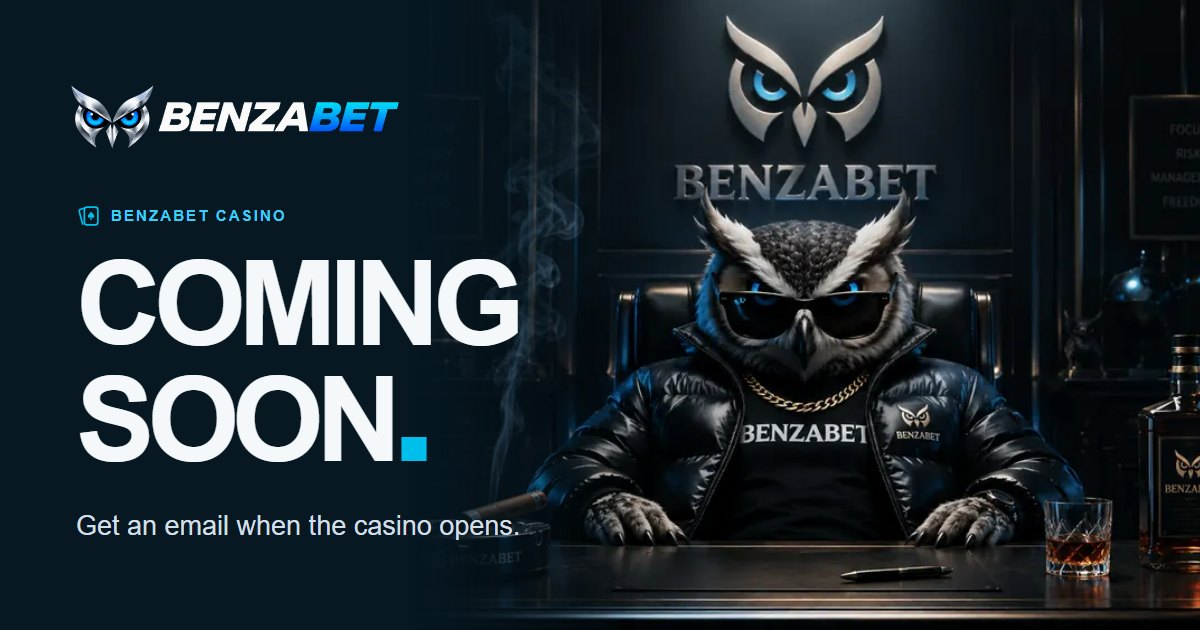
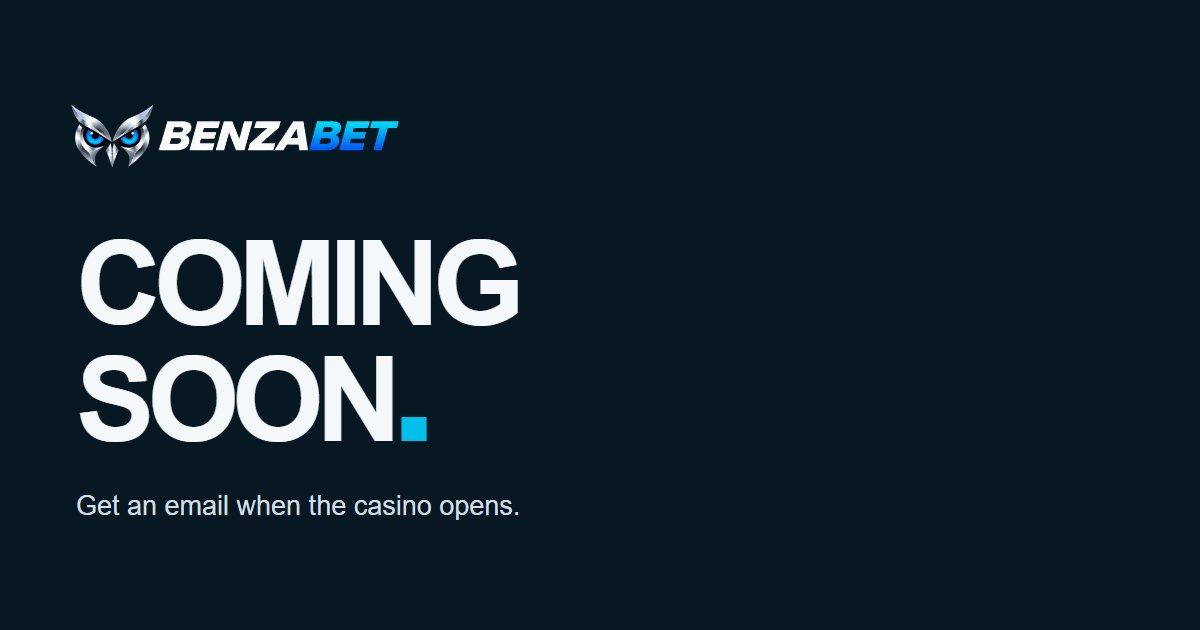
Remove the Benzabet Casino label above the headline
Spacing adjusted around the headline, share picture re-made without
the label, tab title now Benzabet - Coming soon.

diff --git a/index.html b/index.html
@@ -7,12 +7,12 @@
   <meta name="theme-color" content="#020b12">
   <meta http-equiv="Content-Security-Policy" content="default-src 'none'; img-src 'self'; style-src 'unsafe-inline'; script-src 'unsafe-inline'; connect-src https://script.google.com https://script.googleusercontent.com; form-action 'none'; base-uri 'none'">
   <meta name="referrer" content="no-referrer">
-  <title>Benzabet Casino &mdash; Coming soon</title>
-  <meta name="description" content="Benzabet Casino is coming soon. Leave your email address and get one email when the casino opens.">
+  <title>Benzabet &mdash; Coming soon</title>
+  <meta name="description" content="Benzabet is coming soon. Leave your email address and get one email when the casino opens.">
   <link rel="canonical" href="https://benzabet.com/">
   <meta property="og:type" content="website">
   <meta property="og:site_name" content="Benzabet">
-  <meta property="og:title" content="Benzabet Casino &mdash; Coming soon">
+  <meta property="og:title" content="Benzabet &mdash; Coming soon">
   <meta property="og:description" content="Get an email when the casino opens.">
   <meta property="og:url" content="https://benzabet.com/">
   <meta property="og:image" content="https://benzabet.com/img/og.jpg">
@@ -51,8 +51,6 @@
     .art picture{display:block;width:100%;height:100%}
     .art img{width:100%;height:100%;display:block;object-fit:cover;object-position:50% 42%}
     .copy{padding:clamp(38px,4.6vw,68px);width:57%}
-    .label{margin:0 0 18px;display:flex;align-items:center;gap:10px;color:#39cffa;letter-spacing:.14em;font-size:12px;font-weight:700;line-height:1.25;text-transform:uppercase}
-    .label svg{width:21px;height:21px;color:var(--cyan);flex:none}
     h1{margin:0;font-size:clamp(62px,6.5vw,96px);line-height:.94;letter-spacing:-.062em;font-weight:700;text-transform:uppercase}
     h1 span{display:block}h1 b{color:var(--cyan)}
     .invite{margin:24px 0 19px;color:#d2dfe7;font-size:clamp(16px,1.3vw,19px);line-height:1.5}
@@ -104,7 +102,6 @@
       main{padding-block:14px 16px}
       .hero{min-height:max(238px,calc(100vh - 100px));min-height:max(238px,calc(100svh - 100px))}
       .copy{padding:13px 30px 36px}
-      .label{margin-bottom:9px;font-size:11px}
       h1{font-size:clamp(40px,14.5vh,62px)}
       .invite{margin:11px 0 12px;font-size:16px}
       input,button{height:46px;min-height:46px}input{font-size:16px}.done{min-height:46px;font-size:13.5px;padding:3px 14px}
@@ -121,8 +118,7 @@
       .art{position:relative;z-index:auto;width:100%;height:auto;aspect-ratio:1.3;max-height:340px;-webkit-mask-image:none;mask-image:none;background:#071823}
       .art img{object-position:50% 42%}
       .art::after{content:"";position:absolute;inset:0;background:linear-gradient(0deg,#071823 0%,transparent 19%)}
-      .copy{width:100%;padding:15px 21px 24px}
-      .label{font-size:10px;letter-spacing:.13em;margin:0 0 10px;gap:7px}.label svg{width:17px;height:17px}
+      .copy{width:100%;padding:19px 21px 24px}
       h1{font-size:clamp(33px,10.4vw,68px);line-height:.99;letter-spacing:-.053em}h1 span{display:inline}
       .invite{margin:15px 0 18px;font-size:16px;line-height:1.45}
       .signup{max-width:100%}form{gap:7px}
@@ -135,7 +131,7 @@
     /* A wide phone: the picture stays a band, it does not push the words off the first screen */
     @media(max-width:700px) and (min-width:480px){.art{aspect-ratio:1.9;max-height:none}.art img{object-position:50% 0}}
     /* A short phone held upright: a lower picture, so the form is on the first screen */
-    @media(max-width:479px) and (max-height:620px){.art{aspect-ratio:1.62}.copy{padding-top:12px}.invite{margin:11px 0 13px}}
+    @media(max-width:479px) and (max-height:620px){.art{aspect-ratio:1.62}.copy{padding-top:15px}.invite{margin:11px 0 13px}}
     /* A small phone on its side: words on the left, picture on the right, like on a PC */
     @media(max-width:700px) and (min-width:480px) and (max-height:480px){
       .top-inner{height:50px}main{padding-block:10px 14px}
@@ -143,7 +139,6 @@
       .art{position:absolute;z-index:-1;inset:0 0 0 auto;width:60%;height:auto;aspect-ratio:auto;max-height:none;background:none;-webkit-mask-image:linear-gradient(90deg,transparent 0%,#000 34%);mask-image:linear-gradient(90deg,transparent 0%,#000 34%)}
       .art::after{display:none}
       .copy{width:62%;padding:14px 18px 34px}
-      .label{margin-bottom:7px}
       h1{font-size:clamp(34px,12.5vh,46px);line-height:.95}h1 span{display:block}
       .invite{margin:9px 0 11px;font-size:15px}
       input,button{height:44px;min-height:44px}.done{min-height:44px;font-size:13px;padding:3px 12px}
@@ -180,7 +175,6 @@
         <img src="img/owl-office.jpg" srcset="img/owl-office-1000.jpg 1000w, img/owl-office.jpg 1672w" sizes="(max-width:700px) 100vw, 1300px" width="1672" height="941" fetchpriority="high" decoding="async" alt="The Benzabet owl in sunglasses at its desk beneath the silver Benzabet emblem.">
       </picture></div>
       <div class="copy">
-        <p class="label"><svg aria-hidden="true" viewBox="0 0 24 24" fill="none" stroke="currentColor" stroke-width="1.6" stroke-linejoin="round"><path d="m8 4-3.5 1a2 2 0 0 0-1.3 2.4L6.6 20"/><rect x="8" y="3" width="13" height="17" rx="2.5"/><path d="M14.5 7.5c-1 1.4-3.1 2.8-3.1 4.2 0 1.7 2 2.1 3.1.7 1.1 1.4 3.1 1 3.1-.7 0-1.4-2.1-2.8-3.1-4.2Z" fill="currentColor" stroke="none"/><path d="m14.5 11.8-1 3.4h2Z" fill="currentColor" stroke="none"/></svg>Benzabet Casino</p>
         <h1 id="launch"><span>Coming</span> <span>soon<b>.</b></span></h1>
         <p class="invite">Get an email when the casino opens.</p>
         <div class="signup">
@@ -209,10 +203,10 @@
   <script>
   (function () {
     'use strict';
-    // Where the address is saved: the web app of the Google Sheet "Benzabet launch list".
+    // Where the address is saved.
     var ENDPOINT = 'https://script.google.com/macros/s/AKfycbyAx90I5icotmSR2tX2DrBplw-H8sqvYJENmyH5_TnKTZK1wR1-OKd54zwfOBdndzjIoQ/exec';
     var WAITS = [1500, 4000];        // pauses before the second and the third try
-    var LIMIT = 25000;               // one request is given up after this long (the sheet may queue it for 20 seconds)
+    var LIMIT = 25000;               // one request is given up after this long
     var PATIENCE = 45000;            // no new try is started after this long
 
     var form = document.getElementById('notify');
